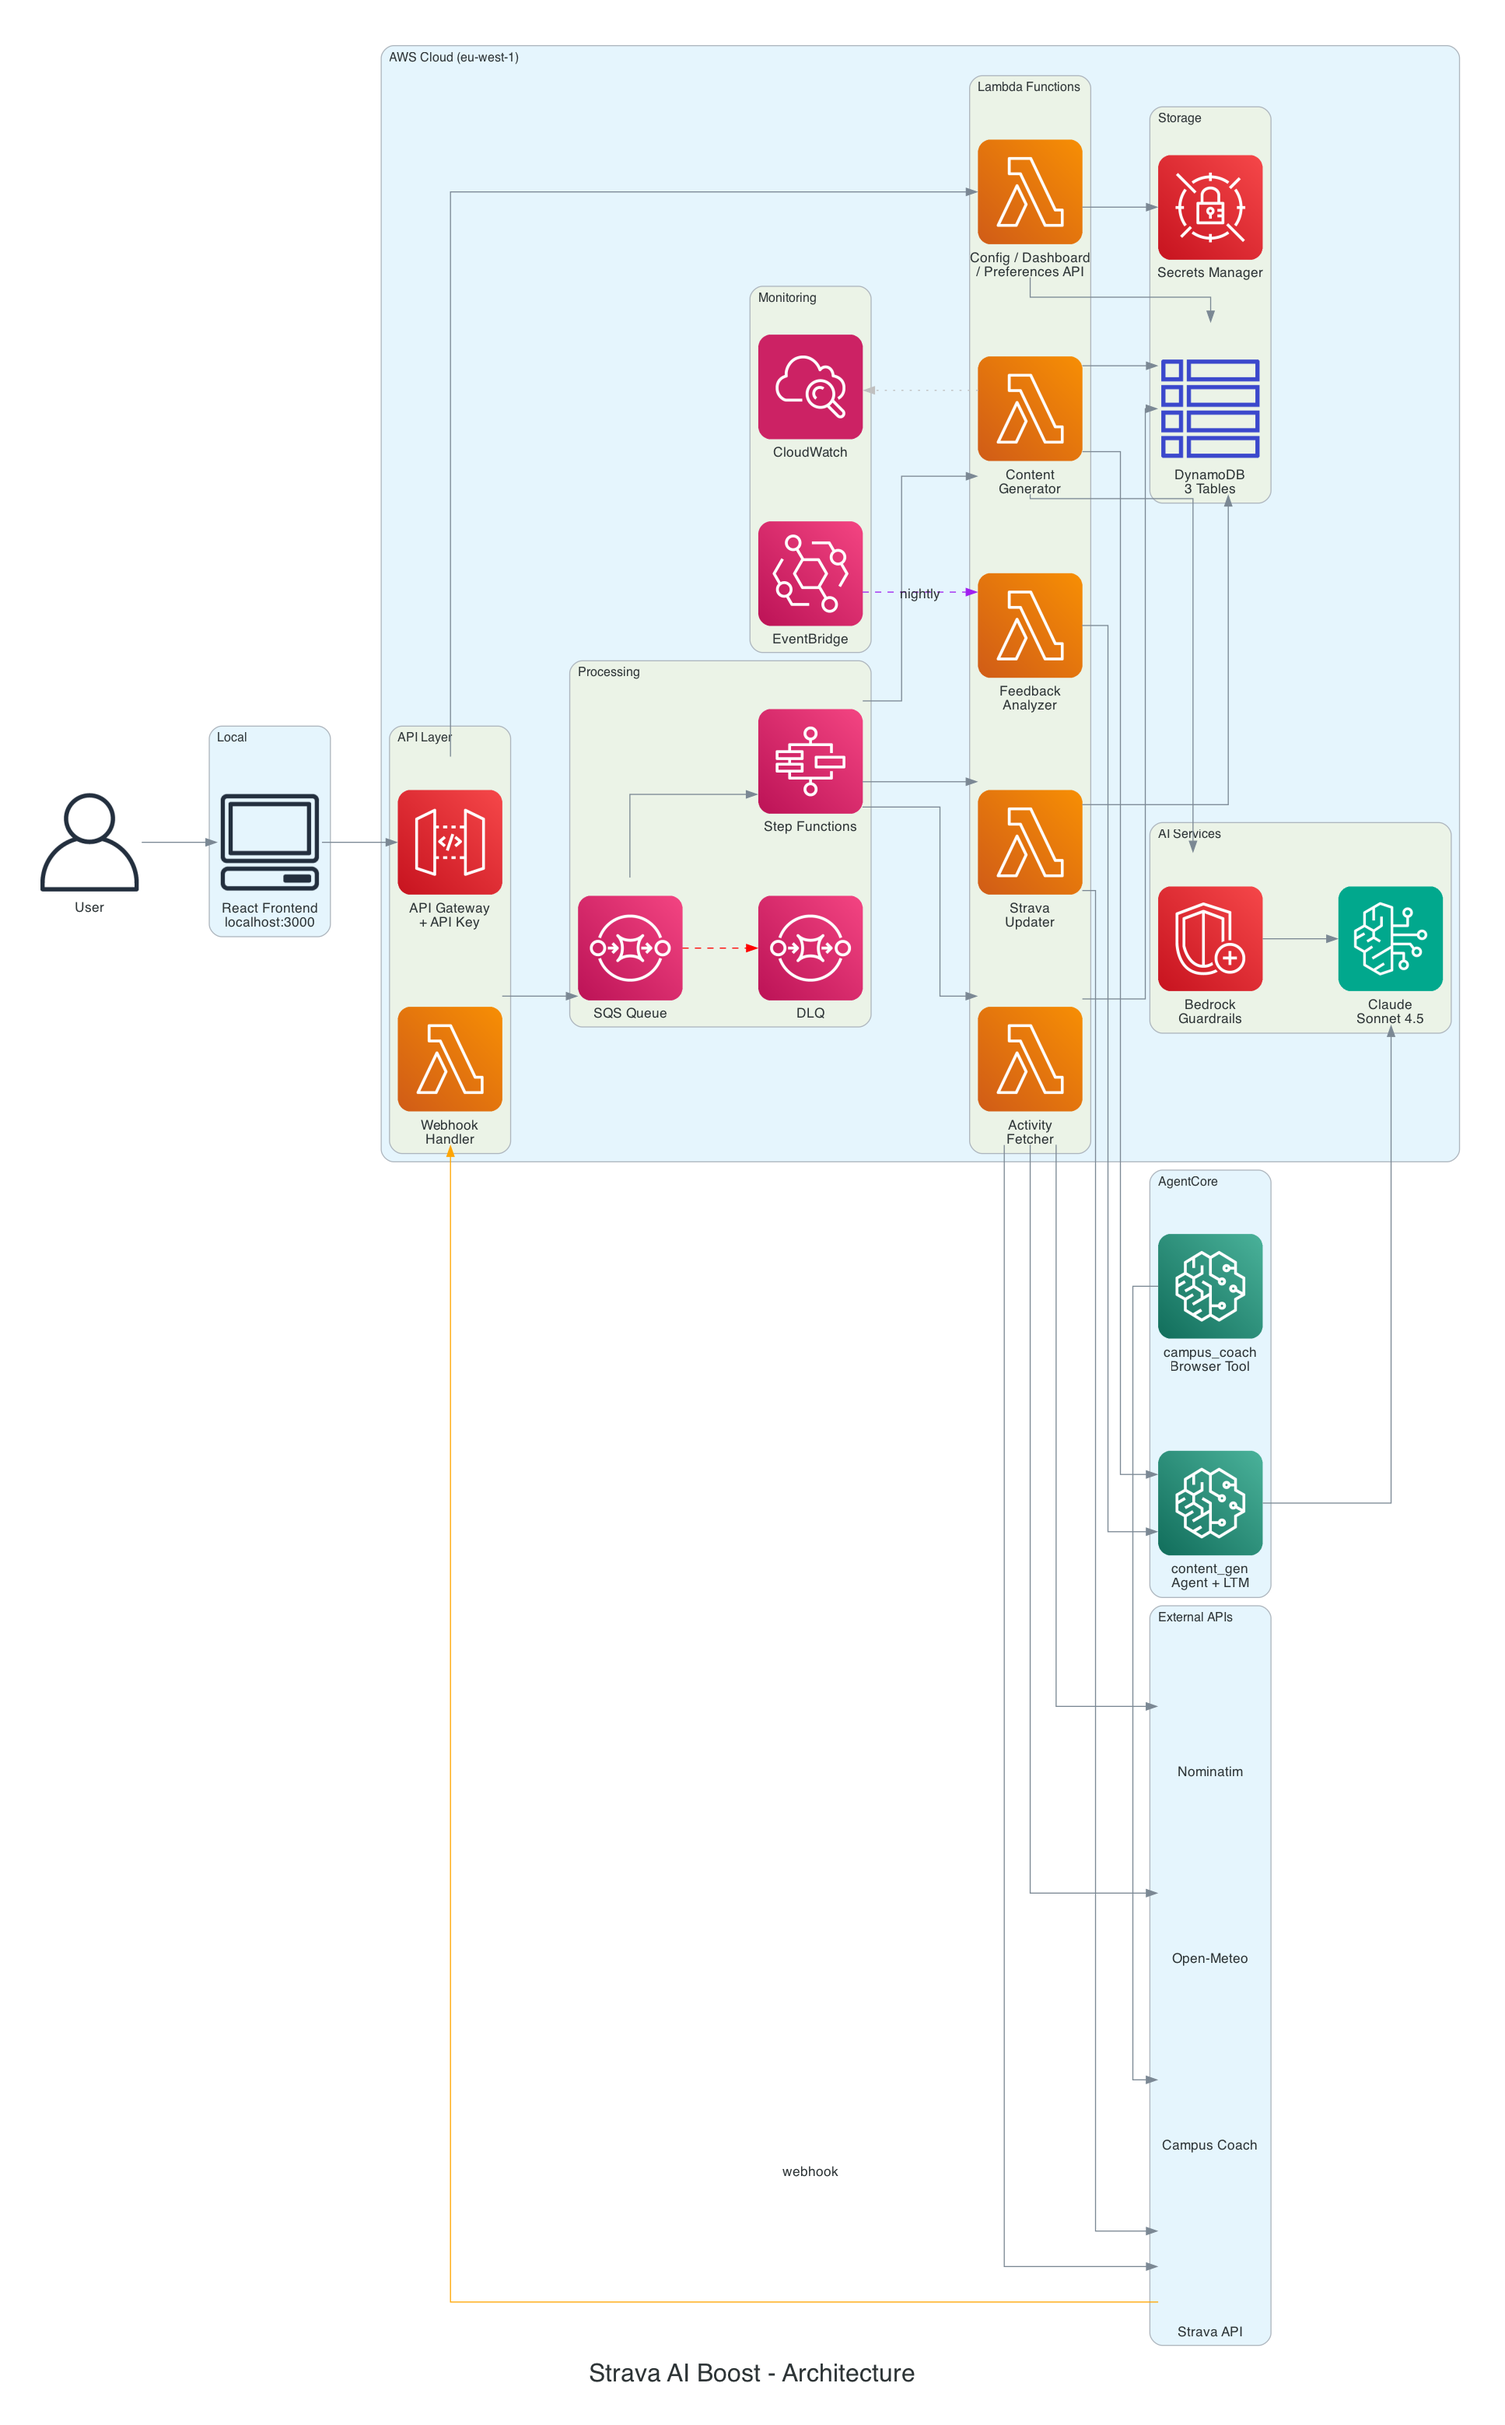
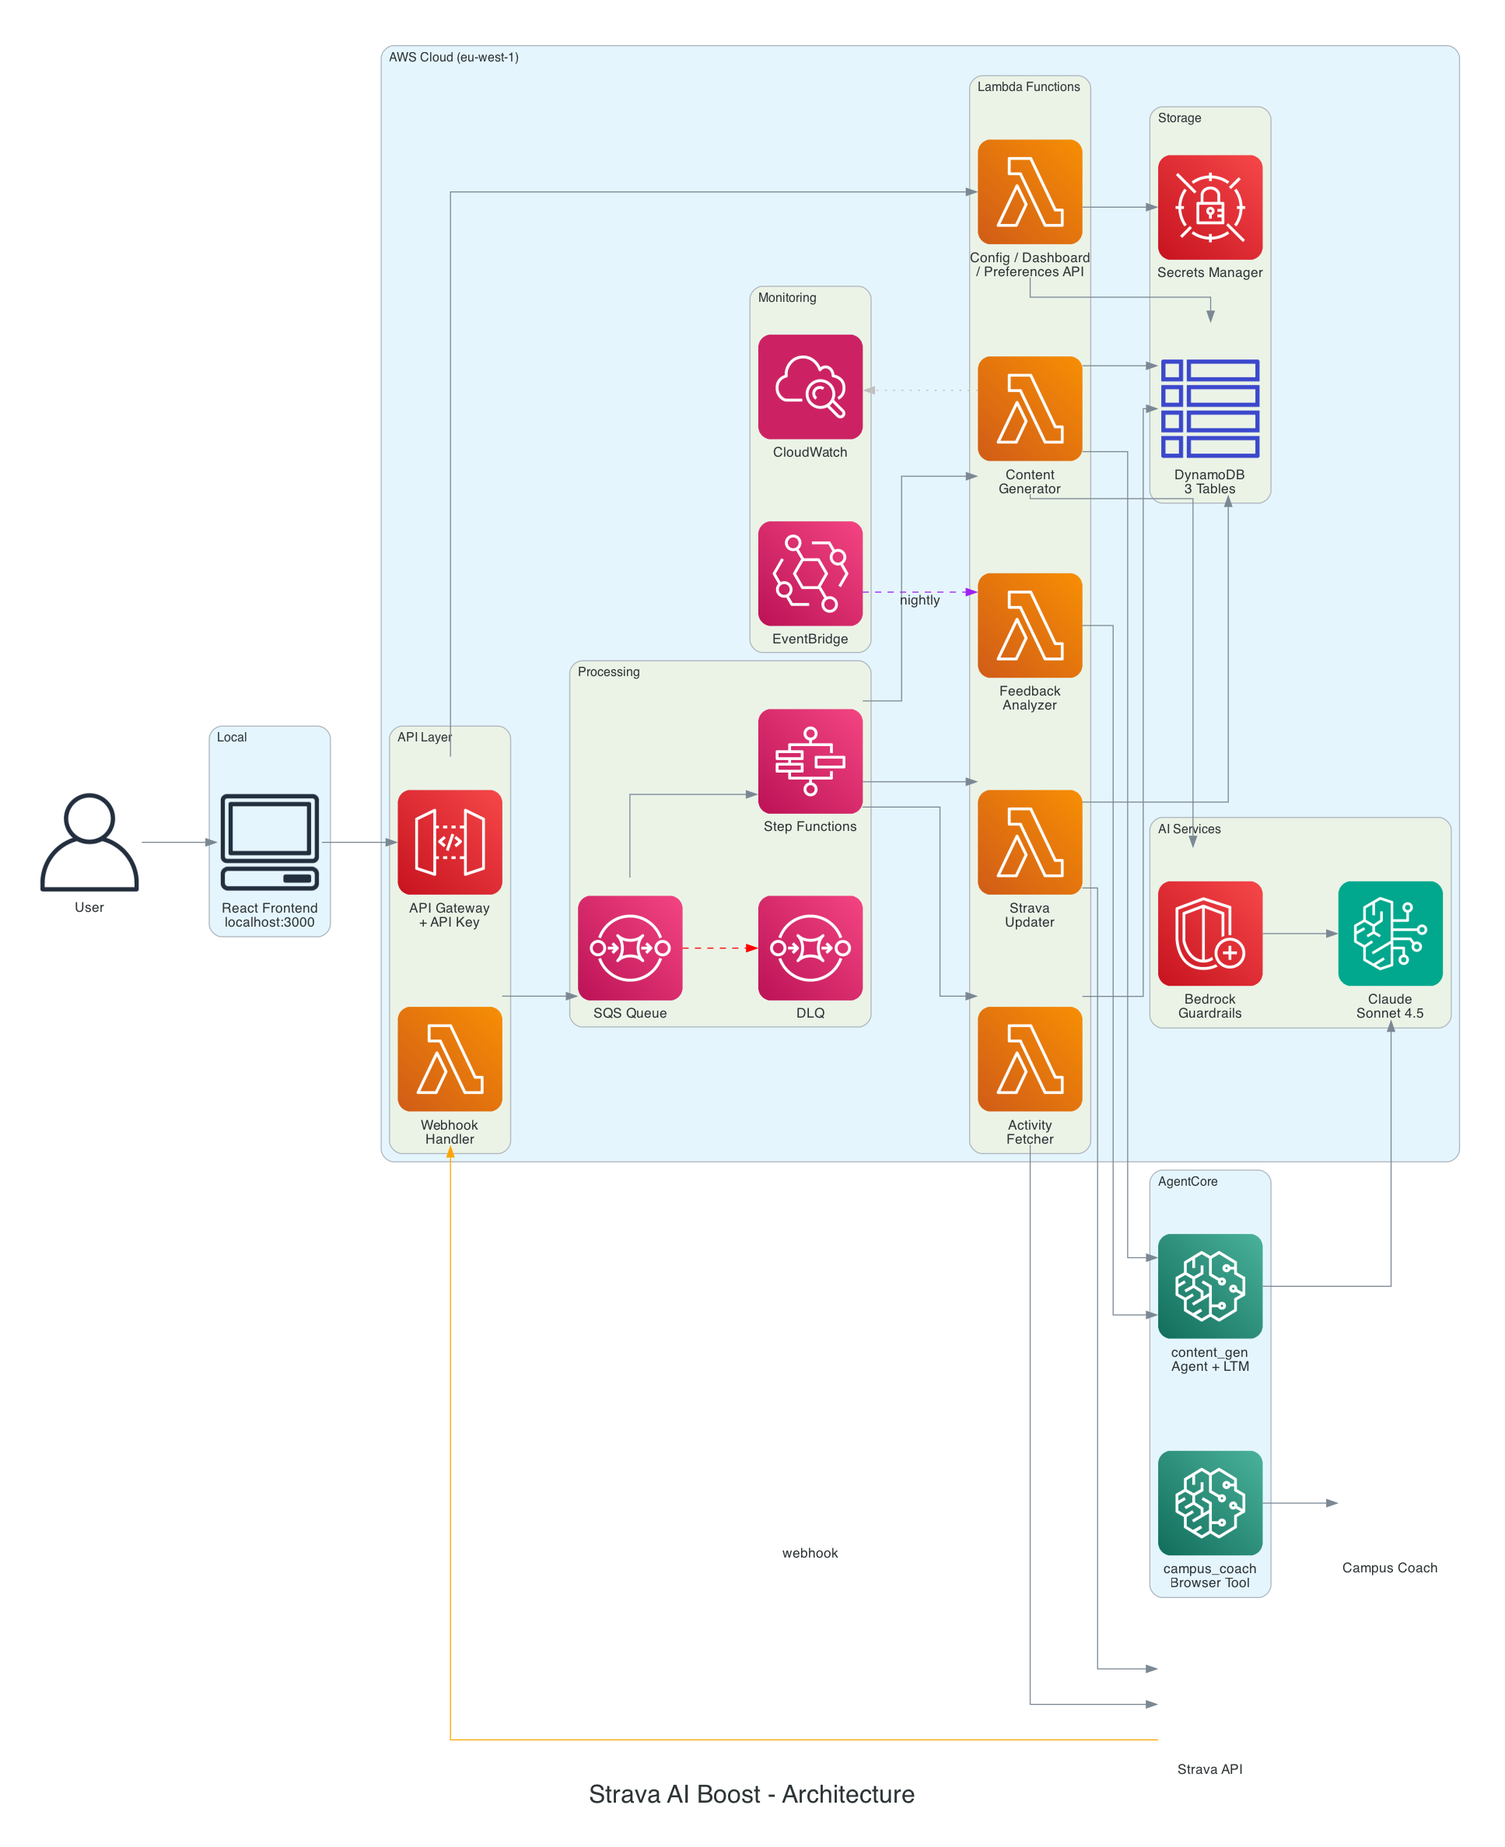
refactor: remove dead Nominatim and Open-Meteo API calls
These APIs fetched location and weather data but the content generator
never consumed the results. Enduraw already provides weather/wind data
when enabled. Removes ~130 lines of unused code and 2 external HTTP
calls per activity, reducing latency and complexity.

diff --git a/lambda_functions/activity_fetcher.py b/lambda_functions/activity_fetcher.py
@@ -612,33 +612,11 @@ def store_activity_data(
         distance = activity_data.get('distance', 0)
         elevation = activity_data.get('total_elevation_gain', 0)
         
-        # Extract location data
+        # Extract location data (from Strava directly)
         location_city = activity_data.get('location_city')
         location_country = activity_data.get('location_country')
         start_latlng = activity_data.get('start_latlng', [])
-        
-        # If Strava didn't provide city/country but we have GPS, do reverse geocoding
-        if not location_city and not location_country and start_latlng and len(start_latlng) >= 2:
-            logger.info(f"Strava location empty, attempting reverse geocoding for GPS: {start_latlng}")
-            geocoded = reverse_geocode_location(start_latlng[0], start_latlng[1])
-            location_city = geocoded.get('city')
-            location_country = geocoded.get('country')
-            logger.info(f"Reverse geocoded result: {location_city}, {location_country}")
-            
-            # Update activity_data with enriched location
-            if location_city:
-                activity_data['location_city'] = location_city
-            if location_country:
-                activity_data['location_country'] = location_country
-            
-            # Also fetch weather data for outdoor activities with GPS
-            start_date = activity_data.get('start_date')
-            if start_date:
-                weather_data = fetch_weather_data(start_latlng[0], start_latlng[1], start_date)
-                # Store weather data in activity_data for content generation
-                if weather_data:
-                    activity_data['fetched_weather'] = weather_data
-        
+
         # Helper function to convert floats to Decimal recursively
         def convert_floats(obj):
             if isinstance(obj, float):
@@ -774,132 +752,3 @@ def fetch_user_configuration(user_id: str) -> Dict[str, Any]:
 
 
 
-def reverse_geocode_location(latitude: float, longitude: float) -> Dict[str, Optional[str]]:
-    """
-    Reverse geocode coordinates to get city and country using Nominatim (OpenStreetMap)
-    
-    API Documentation: https://nominatim.org/release-docs/latest/api/Reverse/
-    Usage Policy: https://operations.osmfoundation.org/policies/nominatim/
-    
-    Args:
-        latitude: Latitude coordinate
-        longitude: Longitude coordinate
-        
-    Returns:
-        Dict with 'city' and 'country' keys
-    """
-    try:
-        # Nominatim API endpoint (official OpenStreetMap service)
-        url = "https://nominatim.openstreetmap.org/reverse"
-        
-        # Parameters according to Nominatim documentation
-        params = {
-            'lat': latitude,
-            'lon': longitude,
-            'format': 'json',
-            'addressdetails': 1,
-            'zoom': 10  # City level
-        }
-        
-        # Headers according to Nominatim usage policy
-        headers = {
-            'User-Agent': 'StravaAIBoost/1.0 (https://github.com/strava-ai-boost; contact@strava-ai-boost.com)'  # Required by Nominatim policy
-        }
-        
-        # Make request with timeout
-        response = _get_http_session().get(url, params=params, headers=headers, timeout=10)
-        
-        if response.status_code == 200:
-            data = response.json()
-            address = data.get('address', {})
-            
-            # Extract city (try multiple fields as per Nominatim docs)
-            city = (
-                address.get('city') or 
-                address.get('town') or 
-                address.get('village') or 
-                address.get('municipality') or
-                address.get('county')
-            )
-            
-            # Extract country
-            country = address.get('country')
-            
-            logger.info(f"Reverse geocoded: {city}, {country}")
-            
-            return {
-                'city': city,
-                'country': country
-            }
-        else:
-            logger.warning(f"Nominatim returned status {response.status_code}")
-            return {'city': None, 'country': None}
-            
-    except Exception as e:
-        logger.error(f"Reverse geocoding failed: {str(e)}")
-        return {'city': None, 'country': None}
-
-
-
-def fetch_weather_data(latitude: float, longitude: float, date_time: str) -> Dict[str, Any]:
-    """
-    Fetch historical weather data using Open-Meteo API (free, no API key required)
-    
-    API Documentation: https://open-meteo.com/en/docs
-    
-    Args:
-        latitude: Latitude coordinate
-        longitude: Longitude coordinate
-        date_time: ISO datetime string (e.g., "2025-12-30T10:00:00Z")
-        
-    Returns:
-        Dict with weather data (temperature, wind_speed, humidity, etc.)
-    """
-    try:
-        # Parse date from ISO string
-        from datetime import datetime
-        dt = datetime.fromisoformat(date_time.replace('Z', '+00:00'))
-        date_str = dt.strftime('%Y-%m-%d')
-        hour = dt.hour
-        
-        # Open-Meteo API endpoint
-        url = "https://archive-api.open-meteo.com/v1/archive"
-        
-        # Parameters according to Open-Meteo documentation
-        params = {
-            'latitude': latitude,
-            'longitude': longitude,
-            'start_date': date_str,
-            'end_date': date_str,
-            'hourly': 'temperature_2m,relative_humidity_2m,wind_speed_10m,wind_direction_10m',
-            'timezone': 'auto'
-        }
-        
-        # Make request
-        response = _get_http_session().get(url, params=params, timeout=10)
-        
-        if response.status_code == 200:
-            data = response.json()
-            hourly = data.get('hourly', {})
-            
-            # Get data for the specific hour
-            if hourly and len(hourly.get('time', [])) > hour:
-                weather = {
-                    'temperature': hourly['temperature_2m'][hour] if 'temperature_2m' in hourly else None,
-                    'humidity': hourly['relative_humidity_2m'][hour] if 'relative_humidity_2m' in hourly else None,
-                    'wind_speed': hourly['wind_speed_10m'][hour] if 'wind_speed_10m' in hourly else None,
-                    'wind_direction': hourly['wind_direction_10m'][hour] if 'wind_direction_10m' in hourly else None
-                }
-                
-                logger.info(f"Weather data: {weather['temperature']}°C, wind {weather['wind_speed']}km/h")
-                return weather
-            else:
-                logger.warning("No hourly data available for this time")
-                return {}
-        else:
-            logger.warning(f"Open-Meteo returned status {response.status_code}")
-            return {}
-            
-    except Exception as e:
-        logger.error(f"Weather fetch failed: {str(e)}")
-        return {}

diff --git a/README.md b/README.md
@@ -204,8 +204,6 @@ graph TB
     subgraph "External Services"
         Strava[Strava API]
         Campus[Campus Coach]
-        Nominatim[Nominatim<br/>Location Data]
-        OpenMeteo[Open-Meteo<br/>Weather Data]
     end
 
     Browser --> APIGW
@@ -223,8 +221,6 @@ graph TB
     Lambda13 --> AgentCore
     Lambda13 --> Strava
     Lambda13 --> Campus
-    Lambda13 --> Nominatim
-    Lambda13 --> OpenMeteo
 
     Lambda13 --> CW
 ```
@@ -237,7 +233,7 @@ graph TB
 | **13 Lambda Functions** | 5 processing pipeline + 4 API endpoints + 3 utilities + 1 feedback |
 | **3 DynamoDB Tables** | `activities` (GSI, TTL), `user_config`, `coaching_sessions` (GSI) |
 | **2 AgentCore Agents** | `content_gen` (LTM memory), `campus_coach` (Browser Tool) |
-| **2 Free APIs** | Nominatim (geocoding), Open-Meteo (weather) |
+| **External APIs** | Strava API, Campus Coach (optional) |
 | **Shared Utilities** | `lambda_functions/shared/` - Structured logging, metrics, correlation IDs |
 
 ### Data Flow: Activity Enhancement
